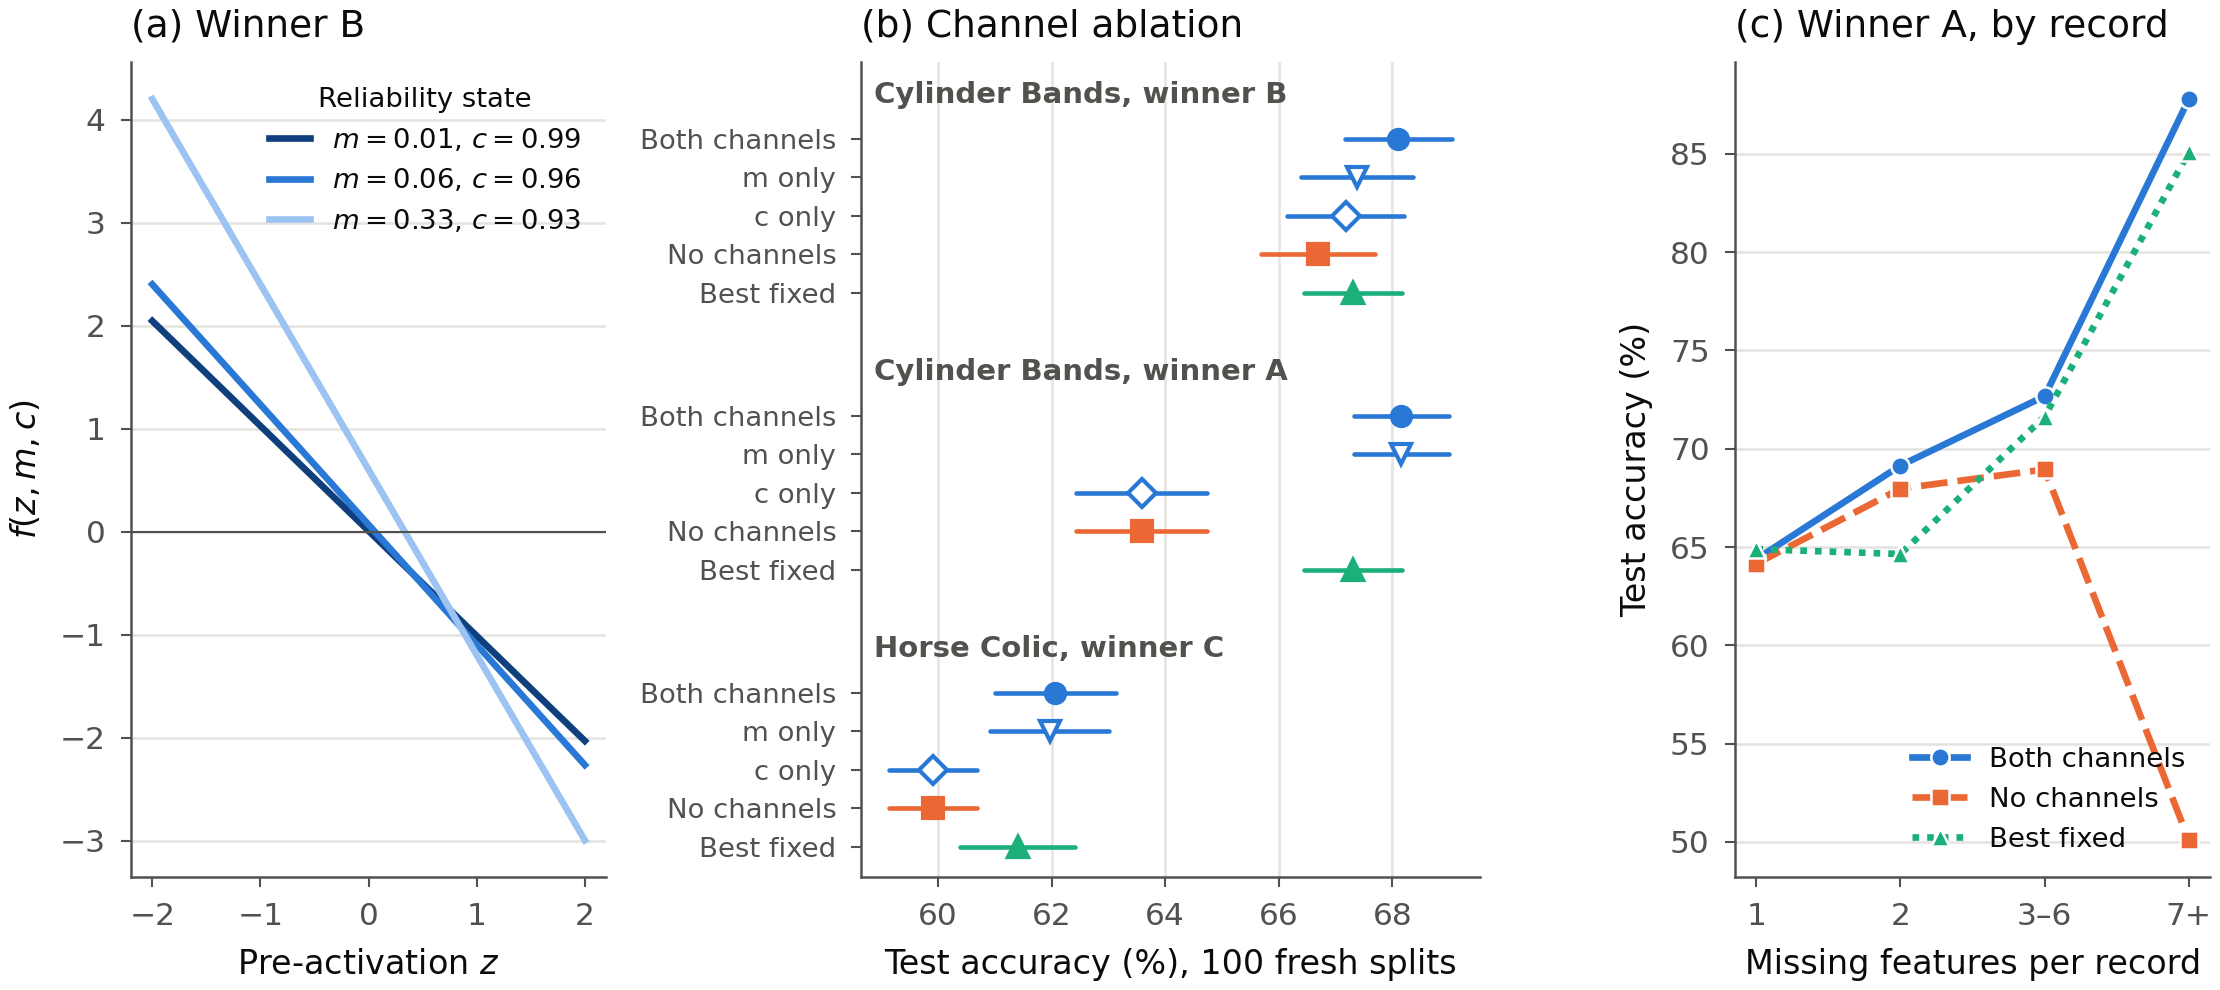
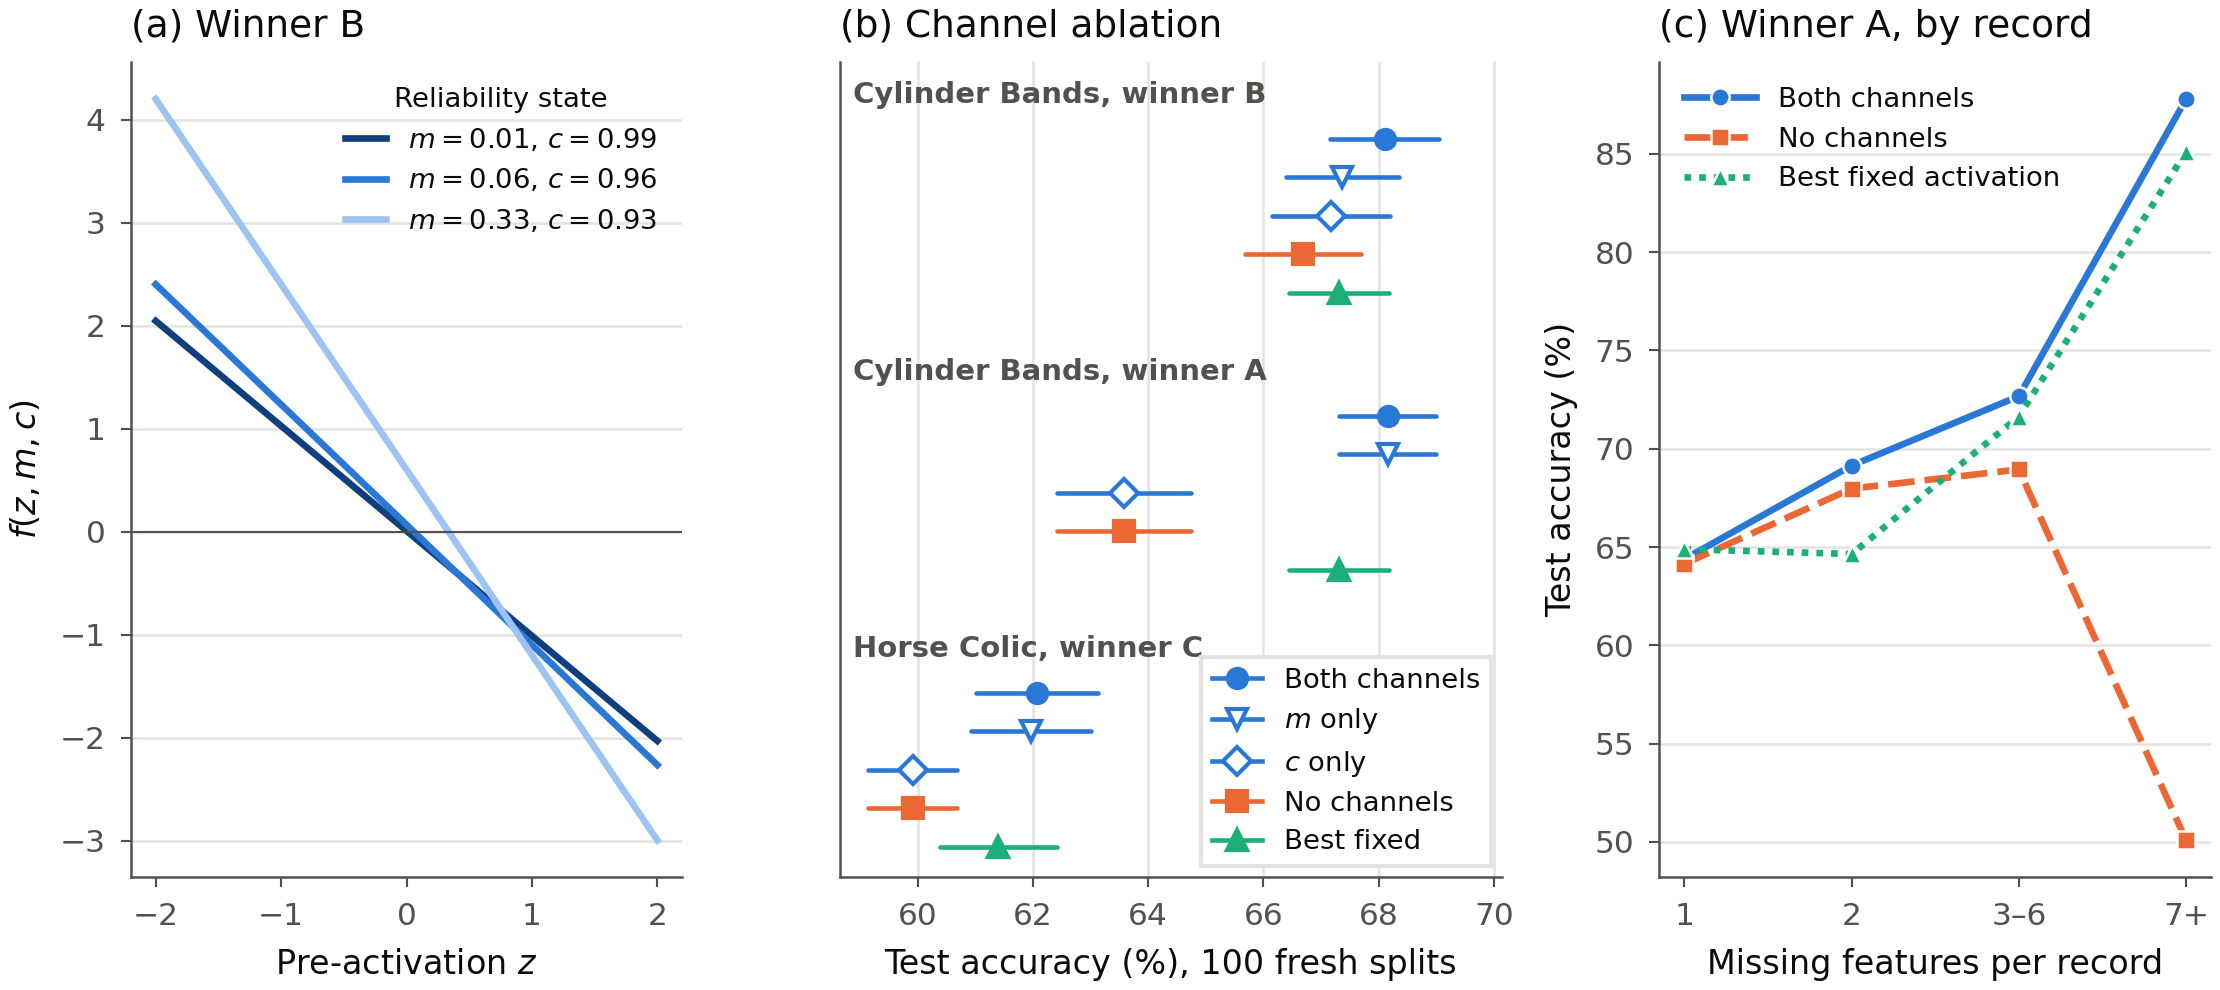
Past-winner figure: legend for the ablation panel, legend of the by-record panel moved off the curves; --replot draws from the saved numbers

diff --git a/telo_tabular_extension/telo_tabular/past_winner_figure.py b/telo_tabular_extension/telo_tabular/past_winner_figure.py
@@ -1,13 +1,15 @@
-"""Figure for the confirmed winners of the original runs (reads runs_past_winners/confirm.json; retrains only for panel c).
+"""Figure for the confirmed winners of the original runs (reads runs_past_winners/confirm.json; retrains only for panels a, c).
 
     python -m telo_tabular.past_winner_figure --confirm runs_past_winners/confirm.json --out figures
+    python -m telo_tabular.past_winner_figure --confirm runs_past_winners/confirm.json --out figures --replot
 
 (a) the Cylinder Bands winner that needs both channels, f = (m - x) / (c (c - m)), at three reliability states taken from
     the propagated channel values the first hidden layer actually receives (5 %, 50 %, 95 % quantiles of m)
 (b) the three confirmed winners retrained on 100 fresh splits with both channels, m only, c only and neither, and the best
     fixed activation; mean accuracy with 95 % t-intervals
 (c) accuracy against the number of missing features in a record for the winner with the largest channel effect
-Also writes past_winner_case.json with the numbers behind panels (a) and (c).
+Also writes past_winner_case.json with the numbers behind panels (a) and (c). With --replot nothing is retrained: panels
+(a) and (c) are drawn from the saved past_winner_case.json, so only the drawing changes.
 """
 import argparse, json, os
 import numpy as np
@@ -26,7 +28,12 @@ from .winner_analysis import neutralise
 
 RAMP = ["#0f3f7d", "#2a78d6", "#9cc3f2"]
 PICKS = [("cylinderband", 2, "Cylinder Bands, winner B"), ("cylinderband", 0, "Cylinder Bands, winner A"), ("horse", 2, "Horse Colic, winner C")]
-VERS = [("both", "Both channels", BLUE, "o"), ("m_only", "m only", BLUE, "v"), ("c_only", "c only", BLUE, "D"), ("neither", "No channels", ORANGE, "s"), (None, "Best fixed", AQUA, "^")]
+VERS = [("both", "Both channels", BLUE, "o"), ("m_only", "$m$ only", BLUE, "v"), ("c_only", "$c$ only", BLUE, "D"), ("neither", "No channels", ORANGE, "s"),
+        (None, "Best fixed", AQUA, "^")]
+BINS = [(1, 1), (2, 2), (3, 6), (7, 25)]; BIN_NAMES = ["1", "2", "3–6", "7+"]
+
+
+def face(v, col): return col if v in ("both", "neither", None) else "white"      # hollow marker = one channel only
 
 
 def fit(split, tree, version):
@@ -37,60 +44,68 @@ def fit(split, tree, version):
 
 def main(argv=None):
     ap = argparse.ArgumentParser(); ap.add_argument("--confirm", required=True); ap.add_argument("--out", required=True)
-    args = ap.parse_args(argv); conf = json.load(open(args.confirm))["datasets"]; torch.set_num_threads(2); case = {}
-    fig, axes = plt.subplots(1, 3, figsize=(7.6, 3.5), gridspec_kw={"width_ratios": [1, 1.3, 1]}); a, b, c = axes
+    ap.add_argument("--replot", action="store_true", help="draw panels (a) and (c) from the saved past_winner_case.json; nothing is retrained")
+    args = ap.parse_args(argv); conf = json.load(open(args.confirm))["datasets"]; torch.set_num_threads(2)
+    case_path = os.path.join(os.path.dirname(args.confirm), "past_winner_case.json"); case = json.load(open(case_path)) if args.replot else {}
+    fig, axes = plt.subplots(1, 3, figsize=(7.6, 3.5), gridspec_kw={"width_ratios": [1, 1.2, 1]}); a, b, c = axes
 
     # (a) winner B: closed form and the channel values layer 1 receives
-    rowB = conf["cylinderband"][2]; tree = rowB["tree"]; x_all, y_all, _ = load_dataset("cylinderband")
-    rng = np.random.default_rng(0); gx, gm = rng.uniform(-3, 3, 5000), rng.uniform(0, .4, 5000); gc = rng.uniform(gm + .2, 1, 5000)
-    tx, tm, tc = (torch.tensor(v, dtype=torch.float32) for v in (gx, gm, gc))
-    err = float((g.evaluate_tree(tree, tx, tm, tc) - (tm - tx) / (tc * (tc - tm))).abs().max())
-    sp = Split(x_all, y_all, CONFIRM_SEEDS[0]); model = fit(sp, tree, "both"); te = sp.parts["test"]
-    with torch.no_grad():
-        _, m1, c1 = model.network.blocks[0].prop(*(torch.tensor(v) for v in te[:3]))
-    m1, c1 = m1.numpy().ravel(), c1.numpy().ravel(); q = np.quantile(m1, [.05, .5, .95]); states = []
-    for qq in q:      # the confidence that accompanies each missingness level (mean of c among the nearest 5 % of units)
-        near = np.argsort(np.abs(m1 - qq))[: max(1, len(m1) // 20)]; states.append((float(qq), float(c1[near].mean())))
+    if not args.replot:
+        rowB = conf["cylinderband"][2]; tree = rowB["tree"]; x_all, y_all, _ = load_dataset("cylinderband")
+        rng = np.random.default_rng(0); gx, gm = rng.uniform(-3, 3, 5000), rng.uniform(0, .4, 5000); gc = rng.uniform(gm + .2, 1, 5000)
+        tx, tm, tc = (torch.tensor(v, dtype=torch.float32) for v in (gx, gm, gc))
+        err = float((g.evaluate_tree(tree, tx, tm, tc) - (tm - tx) / (tc * (tc - tm))).abs().max())
+        sp = Split(x_all, y_all, CONFIRM_SEEDS[0]); model = fit(sp, tree, "both"); te = sp.parts["test"]
+        with torch.no_grad():
+            _, m1, c1 = model.network.blocks[0].prop(*(torch.tensor(v) for v in te[:3]))
+        m1, c1 = m1.numpy().ravel(), c1.numpy().ravel(); q = np.quantile(m1, [.05, .5, .95]); states = []
+        for qq in q:      # the confidence that accompanies each missingness level (mean of c among the nearest 5 % of units)
+            near = np.argsort(np.abs(m1 - qq))[: max(1, len(m1) // 20)]; states.append((float(qq), float(c1[near].mean())))
+        case["winner_B"] = {"infix": rowB["infix"], "closed_form": "(m - x) / (c * (c - m))", "max_abs_error_on_grid": err,
+                            "layer1_m_quantiles_5_50_95": [float(v) for v in q], "states_m_c": states,
+                            "share_units_c_minus_m_below_0.2": float((c1 - m1 < .2).mean())}
     z = np.linspace(-2, 2, 200)
-    for (mm, cc), col in zip(states, RAMP):
+    for (mm, cc), col in zip(case["winner_B"]["states_m_c"], RAMP):
         a.plot(z, (mm - z) / (cc * (cc - mm)), color=col, linewidth=1.6, label=f"$m={mm:.2f}$, $c={cc:.2f}$")
     a.axhline(0, color=INK2, linewidth=0.5); a.set_xlabel("Pre-activation $z$"); a.set_ylabel(r"$f(z, m, c)$"); style_axis(a)
     a.set_title("(a) Winner B", loc="left"); a.legend(loc="upper right", frameon=False, fontsize=6.6, handlelength=1.5, title="Reliability state", title_fontsize=6.6)
-    case["winner_B"] = {"infix": rowB["infix"], "closed_form": "(m - x) / (c * (c - m))", "max_abs_error_on_grid": err,
-                        "layer1_m_quantiles_5_50_95": [float(v) for v in q], "states_m_c": states,
-                        "share_units_c_minus_m_below_0.2": float((c1 - m1 < .2).mean())}
 
     # (b) ablation on 100 fresh splits
-    ypos, labels, y0 = [], [], 0.
+    ypos, y0 = [], 0.
     for ds, i, title in PICKS:
         r = conf[ds][i]; ok = np.isfinite(np.column_stack([r["runs"][v] for v, *_ in VERS[:4]])).all(axis=1)
         for k, (v, lab, col, mk) in enumerate(VERS):
             arr = np.array(r["runs"][v] if v else r["runs_best_fixed"])[ok] * 100; mean = arr.mean()
             h = stats.t.ppf(.975, len(arr) - 1) * arr.std(ddof=1) / np.sqrt(len(arr)); yy = y0 - k
             b.plot([mean - h, mean + h], [yy, yy], color=col, linewidth=1.1, solid_capstyle="round", zorder=2)
-            b.plot(mean, yy, marker=mk, markersize=4.6, color=col, markerfacecolor=col if v in ("both", "neither", None) else "white", markeredgewidth=1.0, zorder=3)
-            ypos.append(yy); labels.append(lab)
+            b.plot(mean, yy, marker=mk, markersize=4.6, color=col, markerfacecolor=face(v, col), markeredgewidth=1.0, zorder=3); ypos.append(yy)
         b.text(0.02, y0 + 1.15, title, transform=b.get_yaxis_transform(), fontsize=7, color=INK2, ha="left", va="center", fontweight="bold")
         y0 -= len(VERS) + 2.2
-    b.set_yticks(ypos); b.set_yticklabels(labels, fontsize=6.6); b.tick_params(axis="y", length=0); style_axis(b, "x")
+    b.set_yticks([]); style_axis(b, "x")
     b.set_xlabel("Test accuracy (%), 100 fresh splits"); b.set_title("(b) Channel ablation", loc="left"); b.set_ylim(min(ypos) - 0.8, 2.0)
+    b.legend(handles=[Line2D([], [], color=col, linewidth=1.1, marker=mk, markersize=4.6, markerfacecolor=face(v, col), markeredgewidth=1.0, label=lab)
+                      for v, lab, col, mk in VERS], loc="lower right", fontsize=6.6, handlelength=1.8, labelspacing=0.45, borderaxespad=0.4,
+             frameon=True, fancybox=False, edgecolor=GRID, facecolor="white", framealpha=1.0)
+    b.set_xlim(b.get_xlim()[0], b.get_xlim()[1] + 0.6)
 
     # (c) winner A by number of missing features
-    rowA = conf["cylinderband"][0]; bins = [(1, 1), (2, 2), (3, 6), (7, 25)]; hit = {v: {bn: [0, 0] for bn in bins} for v in ("both", "neither", "fixed")}
-    for seed in CONFIRM_SEEDS:
-        sp = Split(x_all, y_all, seed); te = sp.parts["test"]; n_miss = te[1].sum(axis=1)
-        for v, tr_, ver in (("both", rowA["tree"], "both"), ("neither", rowA["tree"], "neither"), ("fixed", fixed_tree(rowA["best_fixed"]), "both")):
-            mdl = fit(sp, tr_, ver); pr = predict(mdl, tensors((te[0], *neutralise(te[1], te[2], ver), te[3]), "cpu")).argmax(1) == te[3]
-            for bn in bins:
-                sel = (n_miss >= bn[0]) & (n_miss <= bn[1]); hit[v][bn][0] += int(pr[sel].sum()); hit[v][bn][1] += int(sel.sum())
-    xs = np.arange(len(bins)); names = ["1", "2", "3–6", "7+"]
-    for v, lab, col, mk, ls in (("both", "Both channels", BLUE, "o", "-"), ("neither", "No channels", ORANGE, "s", (0, (4, 1.5))), ("fixed", "Best fixed", AQUA, "^", (0, (1, 1.2)))):
-        c.plot(xs, [100 * hit[v][bn][0] / hit[v][bn][1] for bn in bins], color=col, linestyle=ls, linewidth=1.6, marker=mk, markersize=4.4, markeredgecolor="white", markeredgewidth=0.6, label=lab)
-    c.set_xticks(xs); c.set_xticklabels(names); c.set_xlabel("Missing features per record"); c.set_ylabel("Test accuracy (%)"); style_axis(c)
-    c.set_title("(c) Winner A, by record", loc="left"); c.legend(loc="lower right", frameon=False, fontsize=6.6)
-    case["winner_A_by_missing_count"] = {names[i]: {v: {"correct": hit[v][bn][0], "n": hit[v][bn][1]} for v in hit} for i, bn in enumerate(bins)}
+    if not args.replot:
+        rowA = conf["cylinderband"][0]; hit = {v: {bn: [0, 0] for bn in BINS} for v in ("both", "neither", "fixed")}
+        for seed in CONFIRM_SEEDS:
+            sp = Split(x_all, y_all, seed); te = sp.parts["test"]; n_miss = te[1].sum(axis=1)
+            for v, tr_, ver in (("both", rowA["tree"], "both"), ("neither", rowA["tree"], "neither"), ("fixed", fixed_tree(rowA["best_fixed"]), "both")):
+                mdl = fit(sp, tr_, ver); pr = predict(mdl, tensors((te[0], *neutralise(te[1], te[2], ver), te[3]), "cpu")).argmax(1) == te[3]
+                for bn in BINS:
+                    sel = (n_miss >= bn[0]) & (n_miss <= bn[1]); hit[v][bn][0] += int(pr[sel].sum()); hit[v][bn][1] += int(sel.sum())
+        case["winner_A_by_missing_count"] = {BIN_NAMES[i]: {v: {"correct": hit[v][bn][0], "n": hit[v][bn][1]} for v in hit} for i, bn in enumerate(BINS)}
+    by = case["winner_A_by_missing_count"]; xs = np.arange(len(BIN_NAMES))
+    for v, lab, col, mk, ls in (("both", "Both channels", BLUE, "o", "-"), ("neither", "No channels", ORANGE, "s", (0, (4, 1.5))), ("fixed", "Best fixed activation", AQUA, "^", (0, (1, 1.2)))):
+        c.plot(xs, [100 * by[n][v]["correct"] / by[n][v]["n"] for n in BIN_NAMES], color=col, linestyle=ls, linewidth=1.6, marker=mk, markersize=4.4, markeredgecolor="white", markeredgewidth=0.6, label=lab)
+    c.set_xticks(xs); c.set_xticklabels(BIN_NAMES); c.set_xlabel("Missing features per record"); c.set_ylabel("Test accuracy (%)"); style_axis(c)
+    c.set_title("(c) Winner A, by record", loc="left"); c.legend(loc="upper left", frameon=False, fontsize=6.6, handlelength=2.6)
     fig.tight_layout(w_pad=1.0); save(fig, args.out, "fig_past_winners")
-    json.dump(case, open(os.path.join(os.path.dirname(args.confirm), "past_winner_case.json"), "w"), indent=1); print(json.dumps(case, indent=1))
+    if not args.replot: json.dump(case, open(case_path, "w"), indent=1)
+    print(json.dumps(case, indent=1))
 
 
 if __name__ == "__main__":
